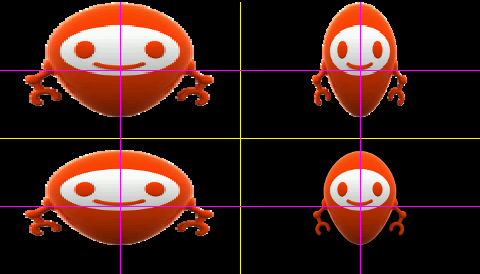
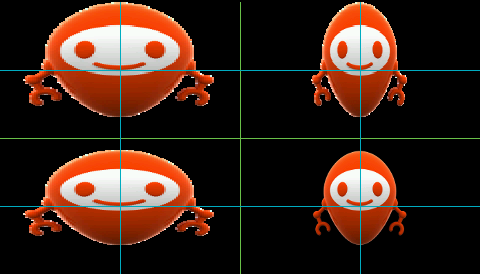
WI17390 Changes following code review - Updated colors for the following samples   	* [DeformedImages(/MicroUI-Get-Started/src/main/java/com/microej/howto/microui/image/DeformedImages.java)   	* [PictosWithCustomFont](/MicroUI-Get-Started/src/main/java/com/microej/howto/microui/font/PictosWithCustom

Changed region(s): [[0.0, 0.7299, 1.0, 0.7591], [0.0, 0.4964, 1.0, 0.5255], [0.0, 0.2336, 1.0, 0.2628]]

diff --git a/MicroUI-Get-Started/src/main/java/com/microej/howto/microui/font/PictosWithCustomFont.java b/MicroUI-Get-Started/src/main/java/com/microej/howto/microui/font/PictosWithCustomFont.java
@@ -7,6 +7,8 @@
 package com.microej.howto.microui.font;
 
 
+import com.microej.howto.microui.MicroEJColors;
+
 import ej.microui.MicroUI;
 import ej.microui.display.Colors;
 import ej.microui.display.Display;
@@ -57,9 +59,12 @@ public class PictosWithCustomFont extends Displayable {
 		final int DISPLAY_HEIGHT = getDisplay().getHeight();
 
 		// fill up background with black
-		g.setColor(Colors.BLACK);
+		g.setColor(MicroEJColors.CONCRETE_BLACK_75);
 		g.fillRect(0, 0, DISPLAY_WIDTH, DISPLAY_HEIGHT);
 
+		//useful for antialiasing optimization
+		g.setBackgroundColor(MicroEJColors.CONCRETE_BLACK_75);
+		
 		final Font myCustomFont = Font.getFont(CUSTOM_FONT_ID, CUSTOM_FONT_SIZE, Font.STYLE_PLAIN);
 		if (myCustomFont == Font.getDefaultFont()) {
 			System.out.println("Unable to find custom font! Using default font instead");
@@ -67,15 +72,15 @@ public class PictosWithCustomFont extends Displayable {
 
 		g.setFont(myCustomFont);
 		// use White color to render text
-		g.setColor(Colors.WHITE);
+		g.setColor(MicroEJColors.WHITE);
 
 		final String message = getMessage();
 		
 		g.drawString(message, DISPLAY_WIDTH / 2, DISPLAY_HEIGHT / 4,
 				GraphicsContext.HCENTER | GraphicsContext.VCENTER);
 
-		// use Yellow color to render text
-		g.setColor(Colors.YELLOW);
+		// use 'Chick' color to render text
+		g.setColor(MicroEJColors.CHICK);
 		g.drawString(message, DISPLAY_WIDTH / 2, (DISPLAY_HEIGHT / 4) * 3,
 				GraphicsContext.HCENTER | GraphicsContext.VCENTER);
 

diff --git a/MicroUI-Get-Started/src/main/java/com/microej/howto/microui/image/DeformedImages.java b/MicroUI-Get-Started/src/main/java/com/microej/howto/microui/image/DeformedImages.java
@@ -8,6 +8,8 @@ package com.microej.howto.microui.image;
 
 import java.io.IOException;
 
+import com.microej.howto.microui.MicroEJColors;
+
 import ej.microui.MicroUI;
 import ej.microui.display.Colors;
 import ej.microui.display.Display;
@@ -86,12 +88,12 @@ public class DeformedImages extends Displayable {
 
 			// draw grid for visual alignment control
 			// divide display in 4 sections
-			g.setColor(Colors.YELLOW);
+			g.setColor(MicroEJColors.ABSINTHE);
 			g.drawLine(0, DISPLAY_CENTER_Y, DISPLAY_WIDTH, DISPLAY_CENTER_Y);
 			g.drawLine(DISPLAY_CENTER_X, 0, DISPLAY_CENTER_X, DISPLAY_HEIGHT);
 
 			// divide each section along horizontal & vertical axis
-			g.setColor(Colors.MAGENTA);
+			g.setColor(MicroEJColors.TURQUOISE);
 			g.drawLine(0, top, DISPLAY_WIDTH, top);
 			g.drawLine(0, bottom, DISPLAY_WIDTH, bottom);
 			g.drawLine(left, 0, left, DISPLAY_HEIGHT);
